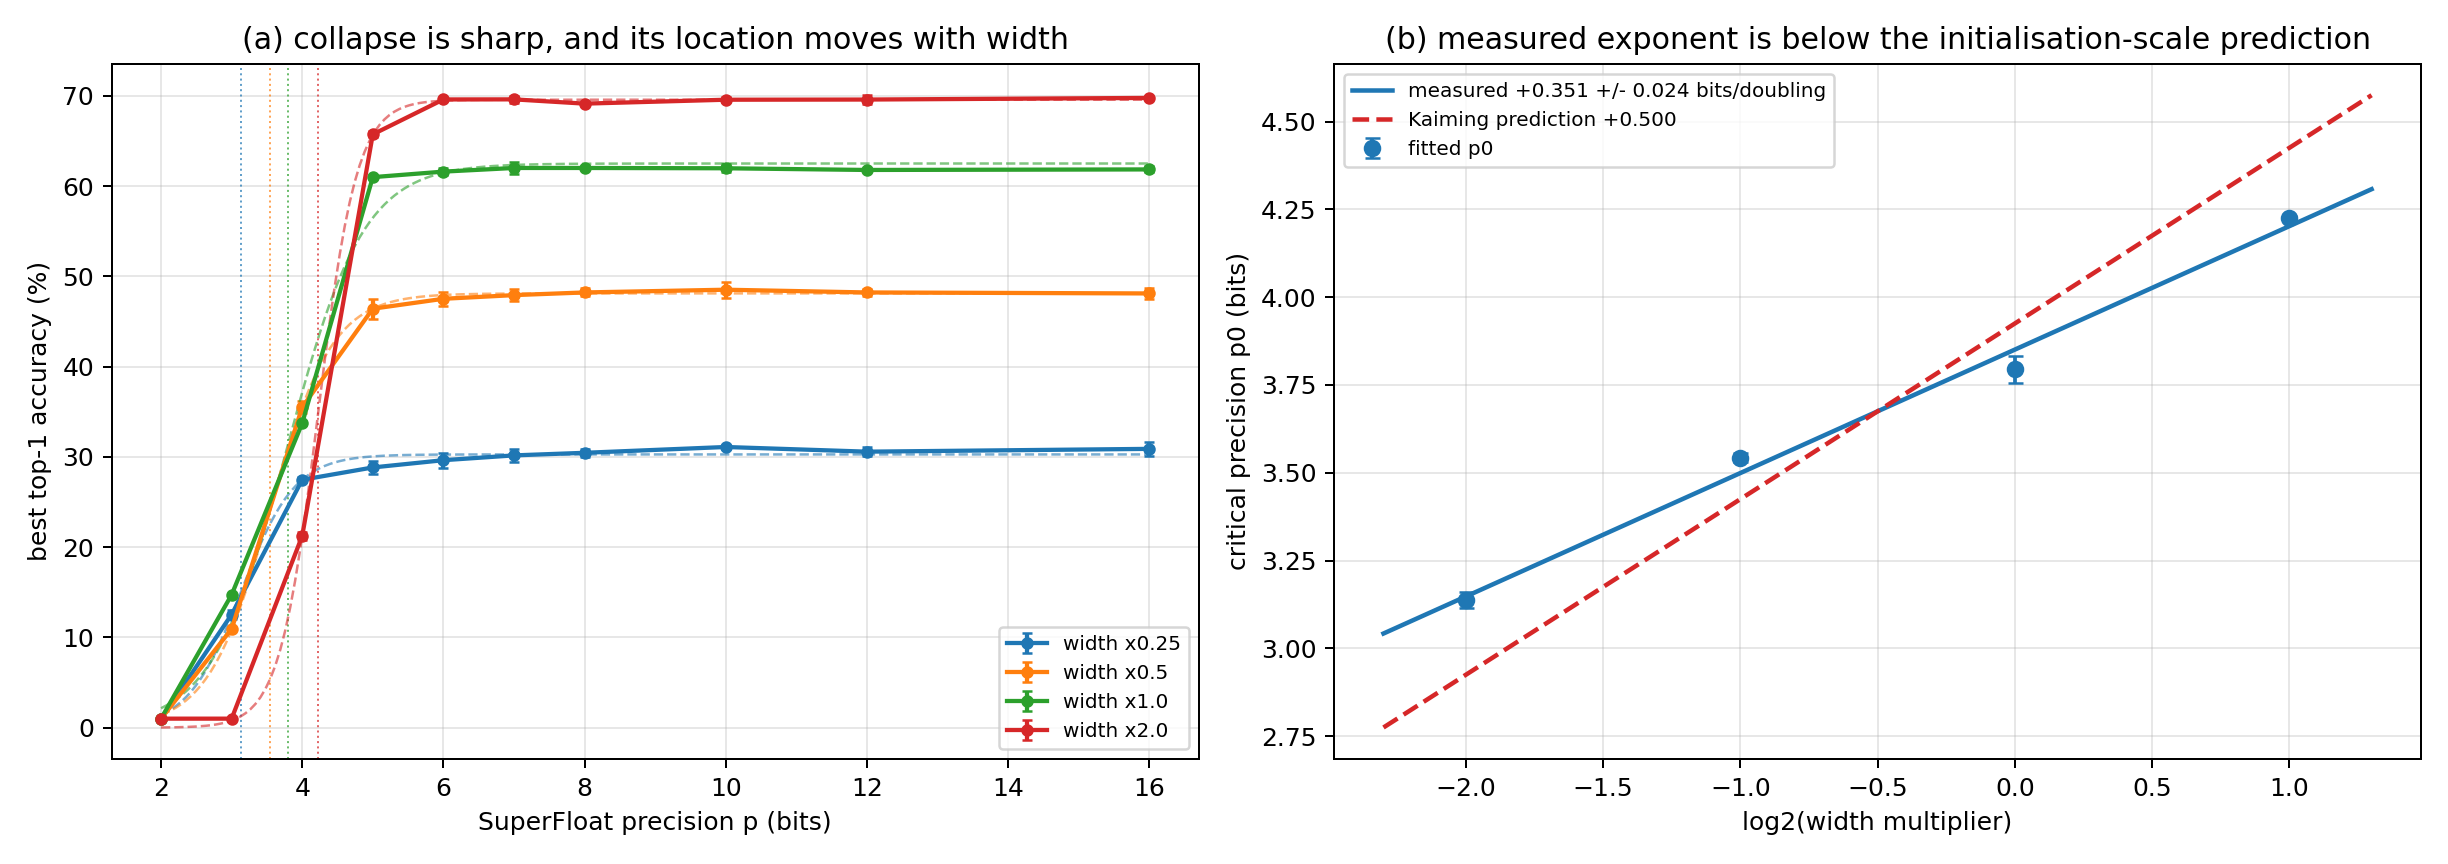
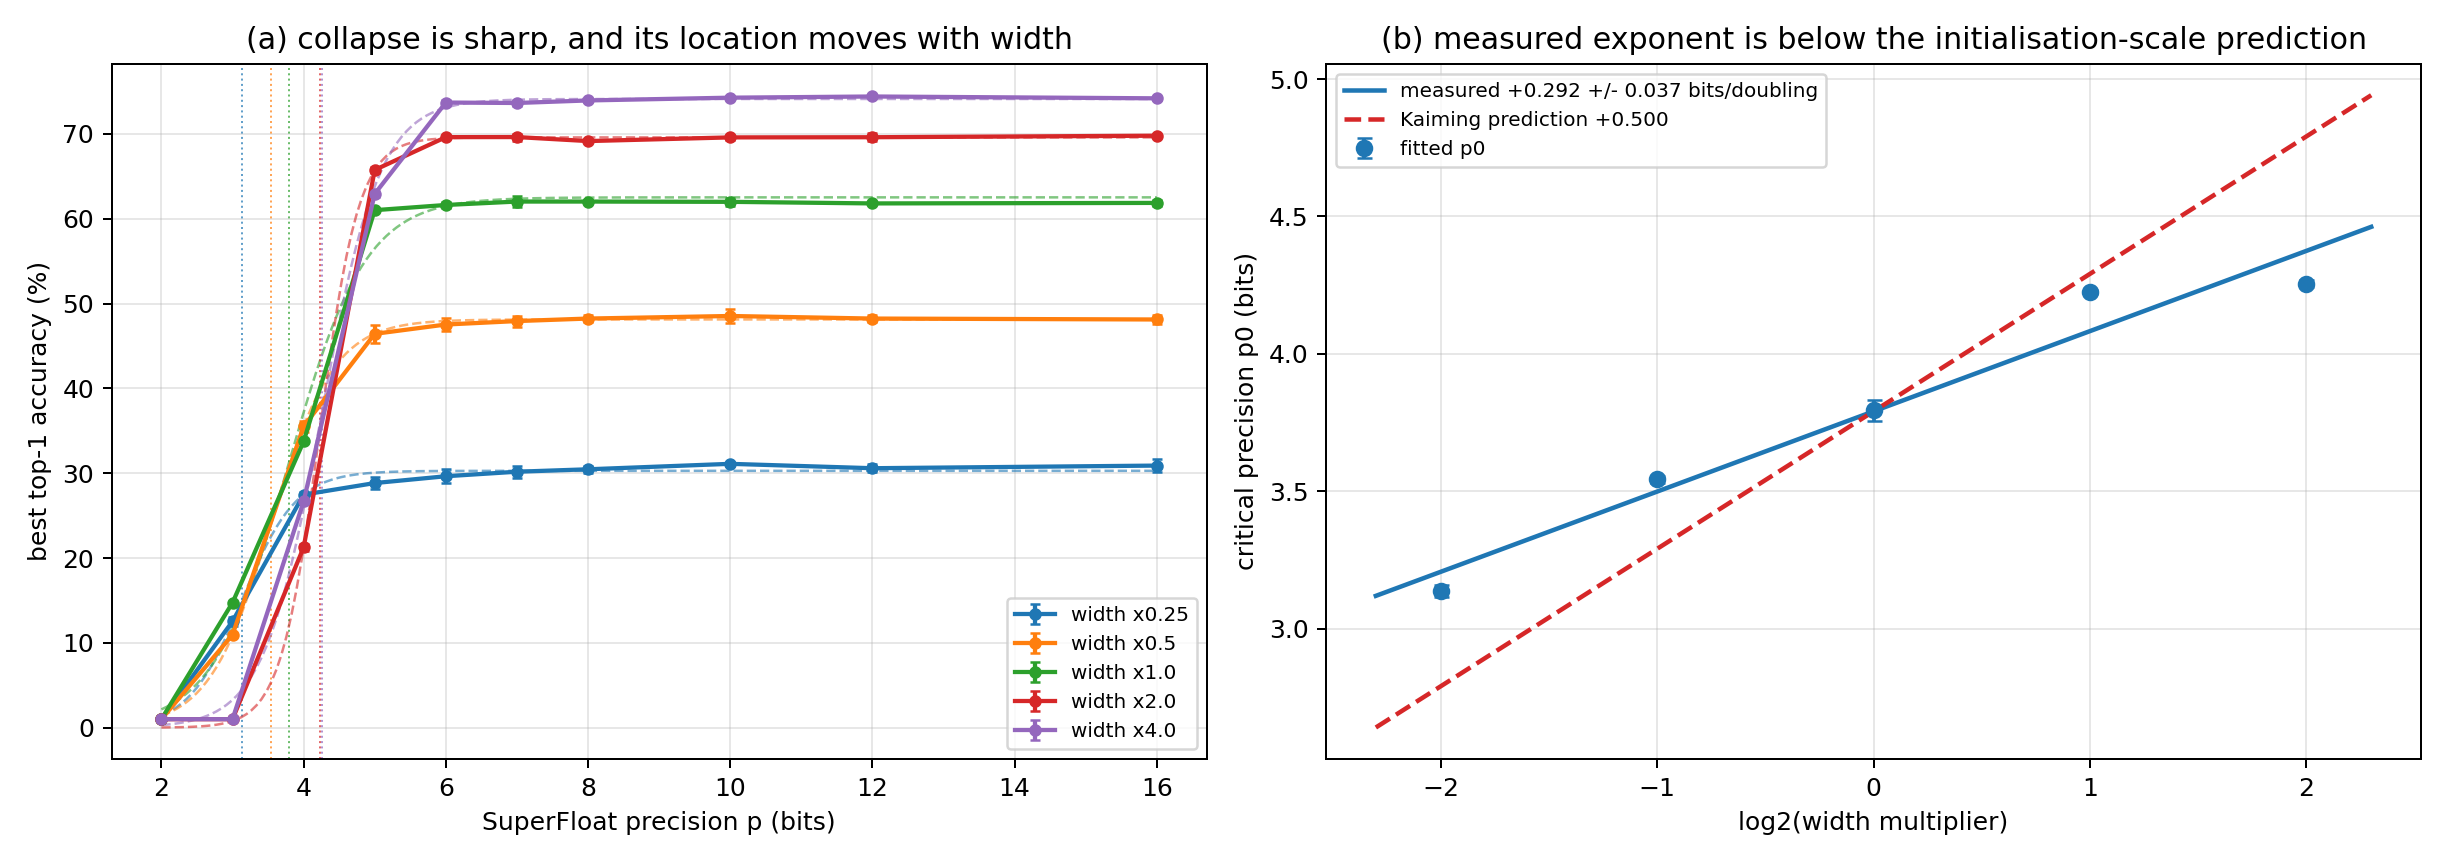
Fix quantization coverage in both LM tiers; add QAT/PTQ results
Three coverage bugs, each of which produced plausible numbers rather than an
error, and two of which were caught only by auditing machinery that had not
yet run.

Tier A quantized 75% of each block. nn.MultiheadAttention keeps QKV as a raw
Parameter (in_proj_weight) rather than an nn.Linear, so apply_superfloat never
saw it and a run labelled SF4 left a quarter of every block in FP32. Replaced
with explicit q/k/v/proj Linears over scaled_dot_product_attention; coverage is
now ~100% of non-embedding params, asserted at runtime as 6 * n_layer.

Tier B left the LM head in fp16, which is 37% of pythia-70m but 2% of
pythia-12b. Degradation would then have grown with N as a pure coverage
artefact -- the very claim this tier exists to test independently. Measured on
70m at SF4, that artefact is 7.64 nats. The head is now quantized by default
and every record carries its coverage fraction.

Tier B's head-exclusion control silently did nothing: transformers renamed
GPTNeoX's embed_out to lm_head between 5.6 (local) and 5.15 (image), so the
name test matched nothing on the runtime. Now matches both and raises unless
exactly one head module is found.

Results. QAT is worth about two bits: SF6 is free under quantization-aware
training (<=0.06 nats at every size), SF8 is the equivalent threshold under
post-training quantization, and SF10+ is free for both. Under QAT the cost at
low precision grows with N (SF4: +0.66 -> +1.63 nats from 4.7M to 25M
[…]

diff --git a/benchmarks/analyze_scaling.py b/benchmarks/analyze_scaling.py
@@ -63,6 +63,10 @@ def load_c(results_dir):
         # smoke runs share tags with real ones; length is the only honest check
         if len(r.get("history", [])) < MIN_EPOCHS:
             continue
+        # head-quantization controls are a different condition and must not be
+        # pooled into the main fit
+        if r.get("quantize_head"):
+            continue
         by[(r["width_mult"], r["bits"])].append(r)
     return by
 
@@ -148,6 +152,124 @@ def figure(by, fits, slope, intercept, se, outdir):
     return path
 
 
+
+# ------------------------------------------------------- tiers A and B -----
+def load_ab(results_dir, tier):
+    """Tier A (QAT) or B (PTQ) records. bits=0 is that row's control."""
+    out = []
+    for f in glob.glob(os.path.join(results_dir, f"runs_scaling_{tier}", "*.json")):
+        if "_fp16head" in f:          # coverage control, not part of the sweep
+            continue
+        out.append(json.load(open(f)))
+    return out
+
+
+def _penalty_table(rows, key_size, key_loss, step=None):
+    """size -> {bits: penalty vs that size's own control}."""
+    grp = collections.defaultdict(dict)
+    for r in rows:
+        if step is not None and r.get("step", 0) != step:
+            continue
+        grp[r[key_size]][r["bits"]] = r[key_loss]
+    out = {}
+    for size, d in grp.items():
+        if 0 not in d:
+            continue
+        out[size] = {b: v - d[0] for b, v in d.items() if b}
+    return out, {s: d[0] for s, d in grp.items() if 0 in d}
+
+
+# a loss far above the uniform baseline is a diverged forward pass, not a
+# measurement; ln(50304) = 10.83 for this vocabulary
+RANDOM_LOSS = math.log(50304)
+DIVERGED = RANDOM_LOSS * 1.2
+
+
+def figure_ab(results_dir, outdir):
+    a = load_ab(results_dir, "a")
+    b = load_ab(results_dir, "b")
+    if not a and not b:
+        return None
+    fig, axes = plt.subplots(1, 3, figsize=(19.5, 4.8))
+
+    # (a) QAT
+    pen_a, ctrl_a = _penalty_table(a, "size", "final_val_loss")
+    order_a = sorted(pen_a, key=lambda s: next(
+        r["n_nonembed"] for r in a if r["size"] == s))
+    for i, s in enumerate(order_a):
+        n = next(r["n_nonembed"] for r in a if r["size"] == s)
+        xs = sorted(pen_a[s])
+        axes[0].plot(xs, [pen_a[s][x] for x in xs], marker="o", ms=4, lw=1.7,
+                     color=WIDTH_COLOR[i % len(WIDTH_COLOR)],
+                     label=f"{s} ({n/1e6:.0f}M non-emb)")
+    axes[0].axhline(0, color="k", lw=0.8, ls=":")
+    axes[0].set_yscale("symlog", linthresh=0.01)
+    axes[0].set_xlabel("SuperFloat precision p (bits)")
+    axes[0].set_ylabel("val loss penalty vs FP32 (nats)")
+    axes[0].set_title("(a) QAT from scratch: cost grows with N below SF6")
+    axes[0].legend(fontsize=8)
+    axes[0].grid(alpha=0.3)
+
+    # (b) PTQ, N axis
+    pen_b, ctrl_b = _penalty_table(b, "size", "val_loss", step=0)
+    order_b = [s for s in ["70m", "160m", "410m", "1b", "1.4b", "2.8b",
+                           "6.9b", "12b"] if s in pen_b]
+    cmap = plt.get_cmap("viridis")
+    for i, s in enumerate(order_b):
+        xs = sorted(pen_b[s])
+        ys = [min(pen_b[s][x], 20) for x in xs]
+        axes[1].plot(xs, ys, marker="o", ms=4, lw=1.7,
+                     color=cmap(i / max(len(order_b) - 1, 1)), label=s)
+    axes[1].axhline(0, color="k", lw=0.8, ls=":")
+    axes[1].set_yscale("symlog", linthresh=0.01)
+    axes[1].set_xlabel("SuperFloat precision p (bits)")
+    axes[1].set_ylabel("val loss penalty vs FP16 (nats)")
+    axes[1].set_title("(b) PTQ across the Pythia ladder: threshold at SF8")
+    axes[1].legend(fontsize=8, ncol=2)
+    axes[1].grid(alpha=0.3)
+
+    # (c) D axis -- the same model, more tokens
+    ck = collections.defaultdict(dict)
+    for r in b:
+        if r.get("step"):
+            ck[(r["size"], r["step"])][r["bits"]] = r["val_loss"]
+    sizes = sorted({s for s, _ in ck})
+    for i, size in enumerate(sizes):
+        steps = sorted({st for sz, st in ck if sz == size})
+        xs, ys = [], []
+        for st in steps:
+            v = ck[(size, st)]
+            if 0 in v and 6 in v:
+                xs.append(st * 2097152 / 1e9)
+                ys.append(v[6] - v[0])
+        if xs:
+            axes[2].plot(xs, ys, marker="o", ms=5, lw=1.8,
+                         color=WIDTH_COLOR[i % len(WIDTH_COLOR)], label=size)
+    axes[2].set_xlabel("training tokens (B)")
+    axes[2].set_ylabel("SF6 penalty vs FP16 (nats)")
+    axes[2].set_title("(c) PTQ damage grows with training tokens")
+    axes[2].legend(fontsize=8)
+    axes[2].grid(alpha=0.3)
+
+    fig.tight_layout()
+    os.makedirs(outdir, exist_ok=True)
+    path = os.path.join(outdir, "scaling_qat_vs_ptq.png")
+    fig.savefig(path, dpi=180)
+    plt.close(fig)
+
+    # report cells that diverged rather than degraded
+    bad = sorted({(r["size"], r["bits"], r.get("step", 0), round(r["val_loss"], 1))
+                  for r in b if r.get("bits") and r["val_loss"] > DIVERGED})
+    if bad:
+        print(f"\n  {len(bad)} PTQ cells exceeded {DIVERGED:.1f} nats "
+              f"(uniform = {RANDOM_LOSS:.2f}); these are diverged forward "
+              "passes, not losses:")
+        for s_, bits, st, v in bad[:8]:
+            tag = f"@step{st}" if st else ""
+            print(f"     {s_:<6} SF{bits:<3}{tag:<12} loss={v:.1f}")
+    return path
+
+
 def main():
     ap = argparse.ArgumentParser()
     ap.add_argument("--results-dir", default=".")
@@ -177,6 +299,9 @@ def main():
           "so the logistic is a fitted shape, not a derived one")
 
     print("\n  " + figure(by, fits, slope, intercept, se, args.out))
+    p = figure_ab(args.results_dir, args.out)
+    if p:
+        print("  " + p)
 
 
 if __name__ == "__main__":

diff --git a/benchmarks/modal/modal_scaling_b.py b/benchmarks/modal/modal_scaling_b.py
@@ -100,8 +100,18 @@ def prepare_eval():
 
 @app.function(image=image, gpu=GPU, volumes={"/vol": vol},
               timeout=60 * 60 * 2, max_containers=8)
-def evaluate(size: str, bits: int, step: int = 0, batch: int = 4):
-    """Weight-only SFx PTQ, then held-out cross-entropy."""
+def evaluate(size: str, bits: int, step: int = 0, batch: int = 4,
+             quantize_head: bool = True):
+    """Weight-only SFx PTQ, then held-out cross-entropy.
+
+    quantize_head controls whether Pythia's untied LM head (embed_out) is
+    quantized along with the transformer stack. It must default to True for
+    the scaling arm: embed_out is 37% of pythia-70m but only 2% of pythia-12b,
+    so leaving it in fp16 would mean small models are largely unquantized and
+    large ones almost fully quantized. Degradation would then appear to grow
+    with N purely as a coverage artefact -- which is the very claim this tier
+    exists to test independently.
+    """
     import json
     import os
     import sys
@@ -114,7 +124,8 @@ def evaluate(size: str, bits: int, step: int = 0, batch: int = 4):
     disable_tf32()
     model_id = f"EleutherAI/pythia-{size}"
     revision = f"step{step}" if step else "main"
-    tag = f"{size}_sf{bits}" + (f"_step{step}" if step else "")
+    tag = (f"{size}_sf{bits}" + (f"_step{step}" if step else "")
+           + ("" if quantize_head else "_fp16head"))
     os.makedirs(OUT, exist_ok=True)
 
     from transformers import AutoModelForCausalLM
@@ -128,10 +139,22 @@ def evaluate(size: str, bits: int, step: int = 0, batch: int = 4):
     if bits:
         scale, vmax = sf_params(bits)
         with torch.no_grad():
+            # transformers renamed GPTNeoX's head embed_out -> lm_head between
+            # 5.6 and 5.15, so match both; a bare "embed_out" test silently
+            # matches nothing on the newer runtime and quantizes the head
+            # regardless of the flag.
+            HEAD = ("embed_out", "lm_head")
+            heads = [n for n, m in model.named_modules()
+                     if isinstance(m, torch.nn.Linear)
+                     and n.rsplit(".", 1)[-1] in HEAD]
+            if len(heads) != 1:
+                raise RuntimeError(
+                    f"expected exactly one head module, found {heads}; "
+                    "head handling would be silently wrong")
             for name, m in model.named_modules():
-                # the tied embedding/output head stays in fp16, matching the
-                # recipe used everywhere else in this project
-                if not isinstance(m, torch.nn.Linear) or "embed_out" in name:
+                if not isinstance(m, torch.nn.Linear):
+                    continue
+                if not quantize_head and name in heads:
                     continue
                 q = sf_quantize_sv(m.weight.data.float(), scale, vmax)
                 dead += (q == 0).sum().item()
@@ -154,7 +177,12 @@ def evaluate(size: str, bits: int, step: int = 0, batch: int = 4):
             tot_tok += ntok
     val_loss = tot_nll / tot_tok
 
+    # record coverage so the N axis can be audited rather than assumed
+    nonemb = sum(p.numel() for n, p in model.named_parameters()
+                 if "embed_in" not in n)
     rec = {"size": size, "bits": bits, "step": step,
+           "quantize_head": quantize_head,
+           "quantized_frac_nonemb": (tot / nonemb) if nonemb else 0.0,
            "params": sum(p.numel() for p in model.parameters()),
            "val_loss": val_loss, "ppl": float(np.exp(val_loss)),
            "dead_frac": dead / max(tot, 1), "load_s": load_s}
@@ -162,7 +190,8 @@ def evaluate(size: str, bits: int, step: int = 0, batch: int = 4):
         json.dump(rec, f)
     vol.commit()
     print(f"[{tag}] loss={val_loss:.4f} ppl={rec['ppl']:.2f} "
-          f"dead={rec['dead_frac']*100:.1f}%", flush=True)
+          f"dead={rec['dead_frac']*100:.1f}% "
+          f"cover={rec['quantized_frac_nonemb']*100:.1f}%", flush=True)
     return rec
 
 

diff --git a/benchmarks/modal/modal_scaling_a.py b/benchmarks/modal/modal_scaling_a.py
@@ -114,18 +114,44 @@ def build_gpt(d_model, n_layer, n_head):
     import torch
     import torch.nn as nn
 
+    class Attn(nn.Module):
+        """Explicit q/k/v projections.
+
+        nn.MultiheadAttention stores QKV as a single raw Parameter
+        (in_proj_weight), not an nn.Linear, so apply_superfloat cannot see it
+        and 25% of every block would silently stay FP32 -- which would mean
+        "SF4" did not actually denote SF4. Separate nn.Linear layers keep the
+        whole block inside the format.
+        """
+
+        def __init__(self):
+            super().__init__()
+            self.q = nn.Linear(d_model, d_model)
+            self.k = nn.Linear(d_model, d_model)
+            self.v = nn.Linear(d_model, d_model)
+            self.proj = nn.Linear(d_model, d_model)
+
+        def forward(self, x):
+            import torch.nn.functional as F
+            B, T, C = x.shape
+            hd = C // n_head
+            q = self.q(x).view(B, T, n_head, hd).transpose(1, 2)
+            k = self.k(x).view(B, T, n_head, hd).transpose(1, 2)
+            v = self.v(x).view(B, T, n_head, hd).transpose(1, 2)
+            o = F.scaled_dot_product_attention(q, k, v, is_causal=True)
+            return self.proj(o.transpose(1, 2).reshape(B, T, C))
+
     class Block(nn.Module):
         def __init__(self):
             super().__init__()
             self.ln1 = nn.LayerNorm(d_model)
-            self.attn = nn.MultiheadAttention(d_model, n_head, batch_first=True)
+            self.attn = Attn()
             self.ln2 = nn.LayerNorm(d_model)
             self.mlp = nn.Sequential(nn.Linear(d_model, 4 * d_model), nn.GELU(),
                                      nn.Linear(4 * d_model, d_model))
 
-        def forward(self, x, mask):
-            h = self.ln1(x)
-            x = x + self.attn(h, h, h, attn_mask=mask, need_weights=False)[0]
+        def forward(self, x):
+            x = x + self.attn(self.ln1(x))
             return x + self.mlp(self.ln2(x))
 
     class GPT(nn.Module):
@@ -142,10 +168,8 @@ def build_gpt(d_model, n_layer, n_head):
             b, t = idx.shape
             pos = torch.arange(t, device=idx.device)
             x = self.wte(idx) + self.wpe(pos)
-            mask = torch.triu(torch.ones(t, t, device=idx.device,
-                                         dtype=torch.bool), 1)
             for blk in self.blocks:
-                x = blk(x, mask)
+                x = blk(x)
             return self.head(self.lnf(x))
 
     return GPT()
@@ -189,6 +213,12 @@ def train(size: str, bits: int, batch: int = 16, lr: float = 6e-4):
 
     total_tokens = int(n_ne * TOKENS_PER_PARAM)
     steps = total_tokens // (batch * SEQLEN)
+    if bits:
+        expected = 6 * n_layer          # q,k,v,proj + 2 mlp per block
+        if nconv != expected:
+            raise RuntimeError(
+                f"quantized {nconv} layers, expected {expected}; "
+                "some weights would silently stay FP32")
     print(f"[{tag}] non-embed N={n_ne/1e6:.1f}M sf_layers={nconv} "
           f"D={total_tokens/1e6:.0f}M tokens steps={steps}", flush=True)
 

diff --git a/benchmarks/modal/modal_scaling_c.py b/benchmarks/modal/modal_scaling_c.py
@@ -203,7 +203,16 @@ def _augment(xb):
 @app.function(image=image, gpu=GPU, volumes={"/vol": vol},
               timeout=60 * 60 * 3, max_containers=10)
 def train(width_mult: float, bits: int, seed: int, epochs: int = EPOCHS,
-          lr: float = 1e-3, batch: int = 128):
+          lr: float = 1e-3, batch: int = 128, quantize_head: bool = False):
+    """One (width, precision, seed) point.
+
+    quantize_head exists as a control. With the head excluded (the default,
+    matching this project's recipe) the unquantized share falls from 8.9% at
+    x0.25 to 0.6% at x4.0, so narrow models keep more full-precision capacity
+    and their p0 reads low -- which inflates the measured slope. Re-running the
+    extremes with the head quantized bounds that artefact empirically instead
+    of leaving it as an argument.
+    """
     import json
     import os
     import sys
@@ -214,7 +223,7 @@ def train(width_mult: float, bits: int, seed: int, epochs: int = EPOCHS,
 
     disable_tf32()
     torch.manual_seed(seed)
-    tag = f"w{width_mult}_sf{bits}_s{seed}"
+    tag = f"w{width_mult}_sf{bits}_s{seed}" + ("_qhead" if quantize_head else "")
     os.makedirs(OUT, exist_ok=True)
 
     xtr, ytr = _load_gpu(True)
@@ -223,7 +232,8 @@ def train(width_mult: float, bits: int, seed: int, epochs: int = EPOCHS,
     std = torch.tensor(STD, device="cuda").view(1, 3, 1, 1)
 
     model = build_resnet(width_mult).cuda()
-    nconv = apply_superfloat(model, bits=bits, head_names=("head",),
+    nconv = apply_superfloat(model, bits=bits,
+                             head_names=() if quantize_head else ("head",),
                              quantize_activations=False)
     nparams = sum(p.numel() for p in model.parameters())
     d0 = dead_fraction(model)
@@ -282,7 +292,12 @@ def train(width_mult: float, bits: int, seed: int, epochs: int = EPOCHS,
             print(f"[{tag}] ep{ep} train={tl/n:.3f} val={vl/m:.3f} "
                   f"acc={acc:.2f} dead={hist[-1]['dead']*100:.1f}%", flush=True)
 
+    from superfloat import SFConv2d, SFLinear
+    qp = sum(p.numel() for mod in model.modules()
+             if isinstance(mod, (SFConv2d, SFLinear)) for p in mod.parameters())
     rec = {"width_mult": width_mult, "bits": bits, "seed": seed,
+           "quantize_head": quantize_head,
+           "quantized_frac": qp / nparams,
            "params": nparams, "fan_in": fan_in, "sigma": sigma,
            "p_star_pred": p_star, "dead_at_init": d0,
            "best_acc": best, "final_acc": hist[-1]["val_acc"],
